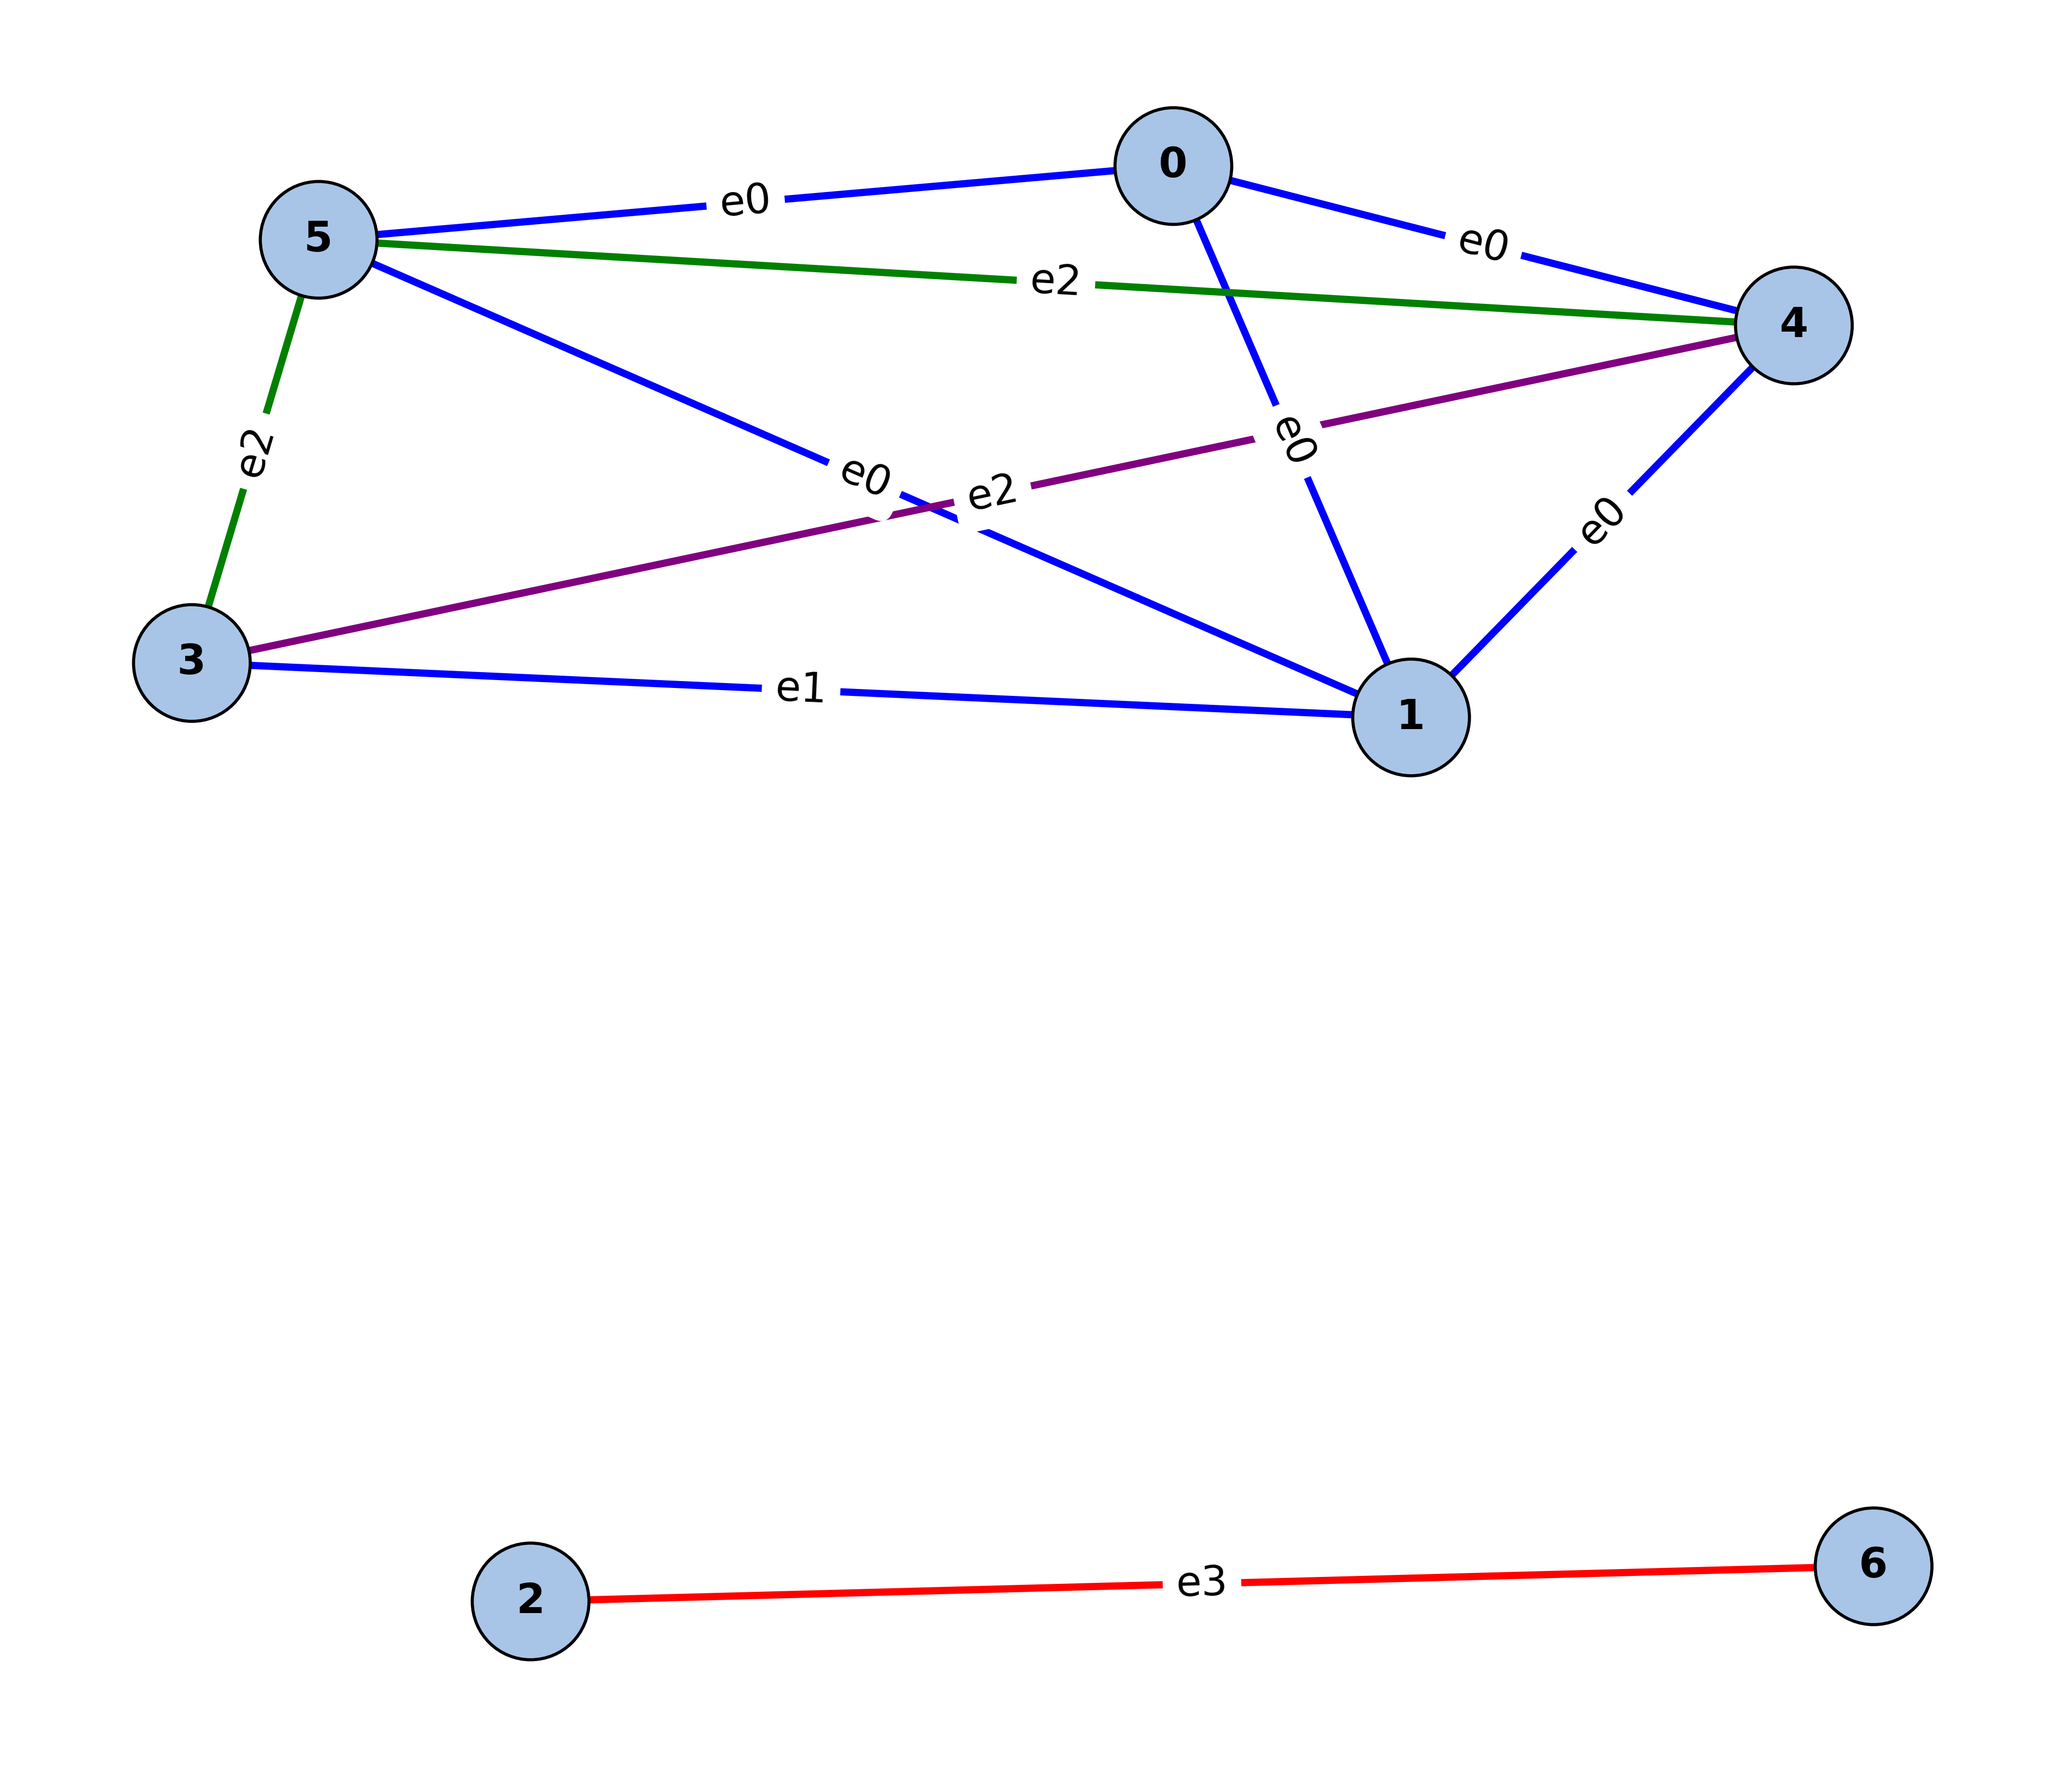
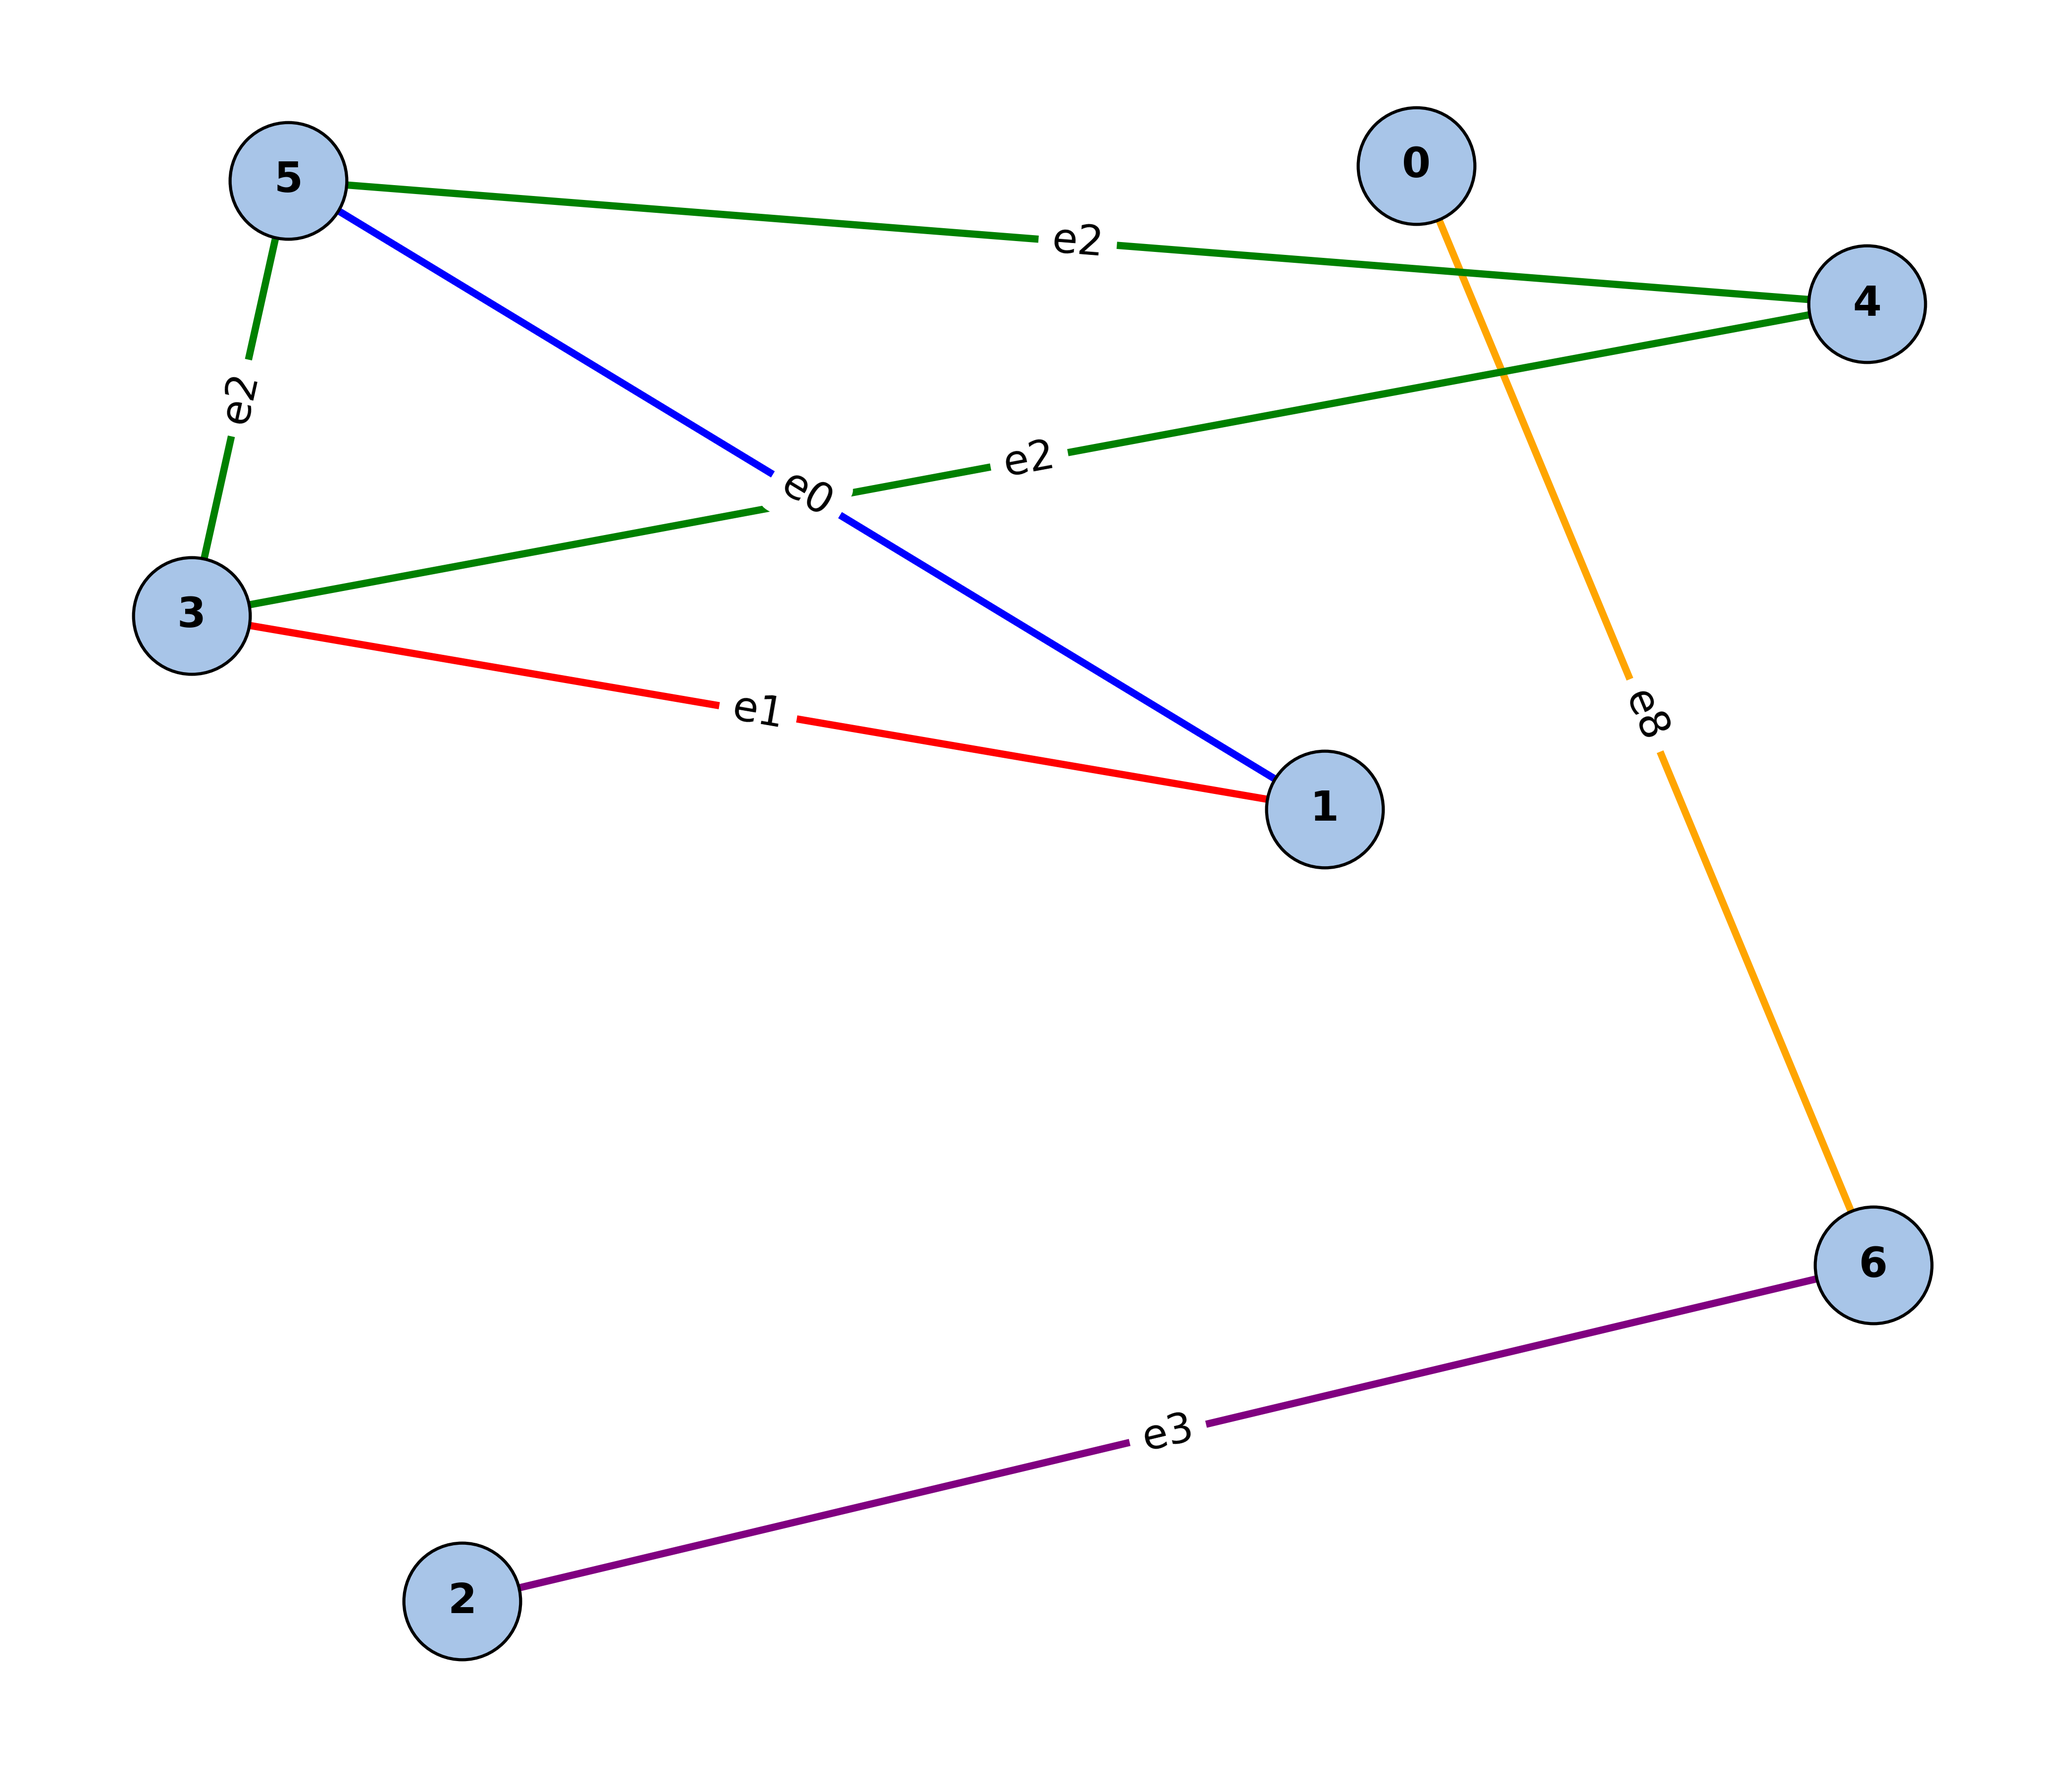
Finalización en el envío básico de mensajes entre agentes

diff --git a/src/communicating_agents/CommunicatingAgent.py b/src/communicating_agents/CommunicatingAgent.py
@@ -30,6 +30,10 @@ class Agent:
             f"Parent= {parent_id} | "
             f"Name= {self.agent_name}\033[0m"
         )
+
+    def send_action_ACK(self, type, origin):
+        return f"\033[34mACK process {type} from AGENT-{origin.id} to AGENT-{self.id} ACTION COMPLETE.\033[0m"
+
     
 
 
@@ -47,6 +51,7 @@ class CommunicatingAgents(ManageMessages):
         self._id_counter = itertools.count()
         self.graphics = GraphicsGenerator()
         self.agents = []
+        self.excluded_links = []
 
     def add_agent(self, parent=None, links=None, agent_name = None):
         agent = Agent(next(self._id_counter), parent=parent, links=links, agent_name=agent_name)
@@ -68,11 +73,11 @@ class CommunicatingAgents(ManageMessages):
                     for secondary_link in links:
                         t2_e1, t2_e2 = secondary_link
                         link = ()
-                        if t1_e1 != t2_e1 and (t1_e1, t2_e1) not in links: 
+                        if t1_e1 != t2_e1 and (t1_e1, t2_e1) not in links and (t1_e1, t2_e1) not in self.excluded_links: 
                             link = (t1_e1, t2_e1)
-                        elif t1_e2 != t2_e2 and (t1_e2, t2_e2) not in links:
+                        elif t1_e2 != t2_e2 and (t1_e2, t2_e2) not in links and (t1_e2, t2_e2) not in self.excluded_links:
                             link = (t1_e2, t2_e2)
-                        elif (t1_e1, t2_e2) not in links and t1_e1 != t2_e2: 
+                        elif (t1_e1, t2_e2) not in links and t1_e1 != t2_e2 and (t1_e1, t2_e2) not in self.excluded_links: 
                             link = (t1_e1, t2_e2)
                         if link and link not in links and (link[1], link[0]) not in links:
                             links.append(link)
@@ -90,22 +95,37 @@ class CommunicatingAgents(ManageMessages):
 
 
     def break_link(self, origin: Agent, link_name: str, target: Agent):
-        if link_name in origin.links:
-            if target in origin.links[link_name]:
-                origin.links[link_name].remove(target)
+        removed = False
+        links_origin = origin.links.get(link_name, [])
+        for agent in links_origin:
+            if agent.id == target.id:
+                links_origin.remove(agent)
+                removed = True
+                break
 
-                if not origin.links[link_name]:
-                    del origin.links[link_name]
+        links_target = target.links.get(link_name, [])
+        for agent in links_target:
+            if agent.id == origin.id:
+                links_target.remove(agent)
+                removed = True
+                break
+
+        if not removed:
+            self.excluded_links.append((origin.id, target.id))
+            self.excluded_links.append((target.id, origin.id))
+
+
     
     def get_links_with_id(self, id):
         links_from_id = []
         links = self.get_links()
         for tag, val in links.items():
             for o1, o2 in val:
-                if id == o1:
-                    links_from_id.append(o2)
-                elif id == o2:
-                    links_from_id.append(o1)
+                if (o1, o2) not in self.excluded_links and (o2, o1) not in self.excluded_links:
+                    if id == o1:
+                        links_from_id.append(o2)
+                    elif id == o2:
+                        links_from_id.append(o1)
         return links_from_id
 
 
@@ -113,18 +133,21 @@ class CommunicatingAgents(ManageMessages):
         available_channel = self._send_message_validations(message, self.agents, self.get_links())
         if available_channel[0]:
             print(available_channel[2].send_ack(available_channel[3], available_channel[1]))
-
             if available_channel[3] == "INFO":
                 print(available_channel[2].get_agent_info(self.get_links_with_id(available_channel[2].id)))
+            elif available_channel[3] == "DEL_LINK":
+                self.break_link(available_channel[1], available_channel[4], available_channel[2])
+                print(available_channel[2].send_action_ACK(available_channel[3], available_channel[1]))
+            elif available_channel[3] == "CRE_LINK":
+                self.add_link(available_channel[1], available_channel[2], available_channel[4])
+                print(available_channel[2].send_action_ACK(available_channel[3], available_channel[1]))
+
 
     def receive_message():
         pass
     
-    def get_bigraph(self):
-        return self.graphics.render_graph(self.agents, self.get_links())
-
-    def get_hyper_graph(self):
-        return self.graphics.get_hyper_graph(self.agents, self.get_links())
-    
-    def get_forest(self):
-        return self.graphics.get_bigraph_forest(self.agents)
+    def generate_graphs(self):
+        self.graphics.render_graph(self.agents, self.get_links())
+        self.graphics.get_hyper_graph(self.agents, self.get_links())
+        self.graphics.get_bigraph_forest(self.agents)
+        pass

diff --git a/src/communicating_agents/main.py b/src/communicating_agents/main.py
@@ -1,6 +1,4 @@
-import customtkinter as ctk
 from CommunicatingAgent import CommunicatingAgents
-from tkinterweb import HtmlFrame
 
 def main():
     agents = CommunicatingAgents()
@@ -23,8 +21,6 @@ def main():
     agents.add_link(agent_v3, agent_v5, "e2")
     agents.add_link(agent_v2, agent_v6, "e3")
 
-    
-
     info_message = {
         "type": "INFO",
         "payload": {
@@ -33,8 +29,35 @@ def main():
             "destiny": agent_v4
         }
     }
-
+    
     agents.send_message(info_message)
+
+    delete_message = {
+        "type": "DEL_LINK",
+        "payload": {
+            "channel": "e0",
+            "origin": agent_v0,
+            "destiny": agent_v4
+        }
+    }
+
+    agents.send_message(delete_message)
+
+
+    add_link_message = {
+        "type": "CRE_LINK",
+        "payload": {
+            "channel": "e8",
+            "origin": agent_v0,
+            "destiny": agent_v6
+        }
+    }
+
+    agents.send_message(add_link_message)
+
+    agents.generate_graphs()
+
+
 
 if __name__ == '__main__':
     main()

diff --git a/src/communicating_agents/messages.py b/src/communicating_agents/messages.py
@@ -42,6 +42,10 @@ class ManageMessages():
         message_type = self.__get_message_type(message = message)
         channel, origin, destiny = self.__get_message_payload(message = message)
 
+        if message_type == "CRE_LINK":
+            if origin in agents and destiny in agents:
+                return [True, origin, destiny, message_type, channel]
+
         try:
             channel_connections = links[channel]
         except KeyError:
@@ -57,7 +61,7 @@ class ManageMessages():
             print("parent_validation")
 
         if connection_exists:
-            return [True, origin, destiny, message_type]
+            return [True, origin, destiny, message_type, channel]
         return [False]
 
         

diff --git a/src/communicating_agents/graphics_generator.py b/src/communicating_agents/graphics_generator.py
@@ -74,8 +74,9 @@ class GraphicsGenerator():
                         fontcolor=color
                     )
                 )
-
-        graph.write_png(outfile)
+        graph.set_graph_defaults(size="10,10!")
+        graph.set_graph_defaults(dpi="100")
+        graph.write_png(outfile, prog = "dot")
         return outfile
 
 
